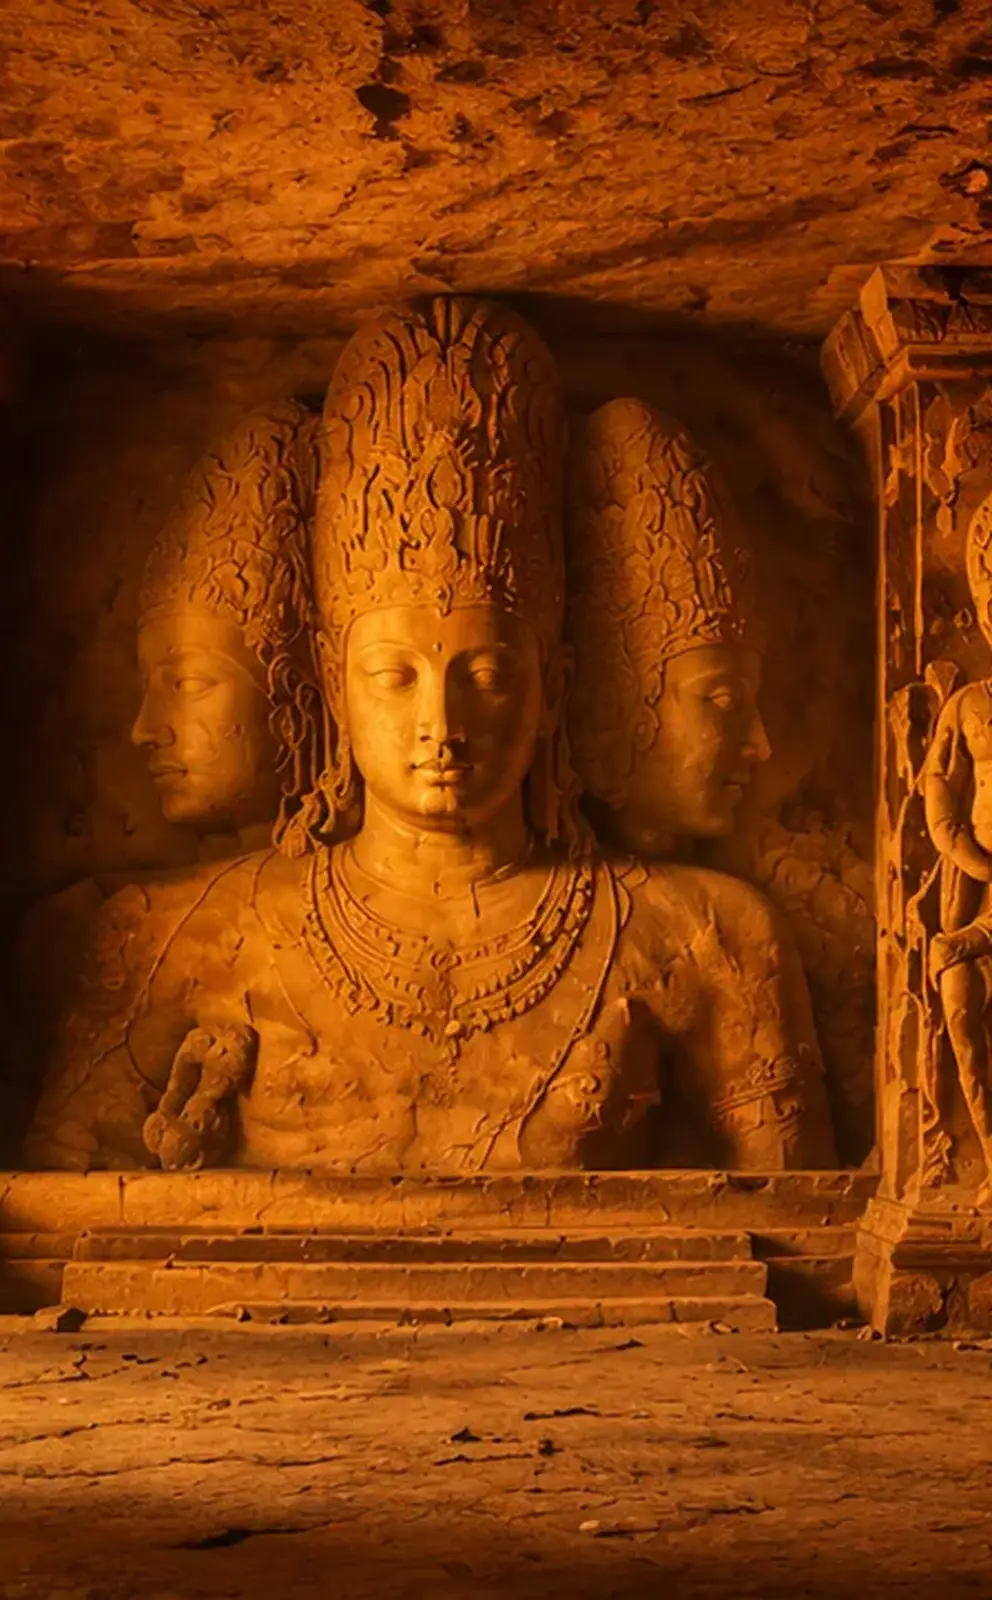
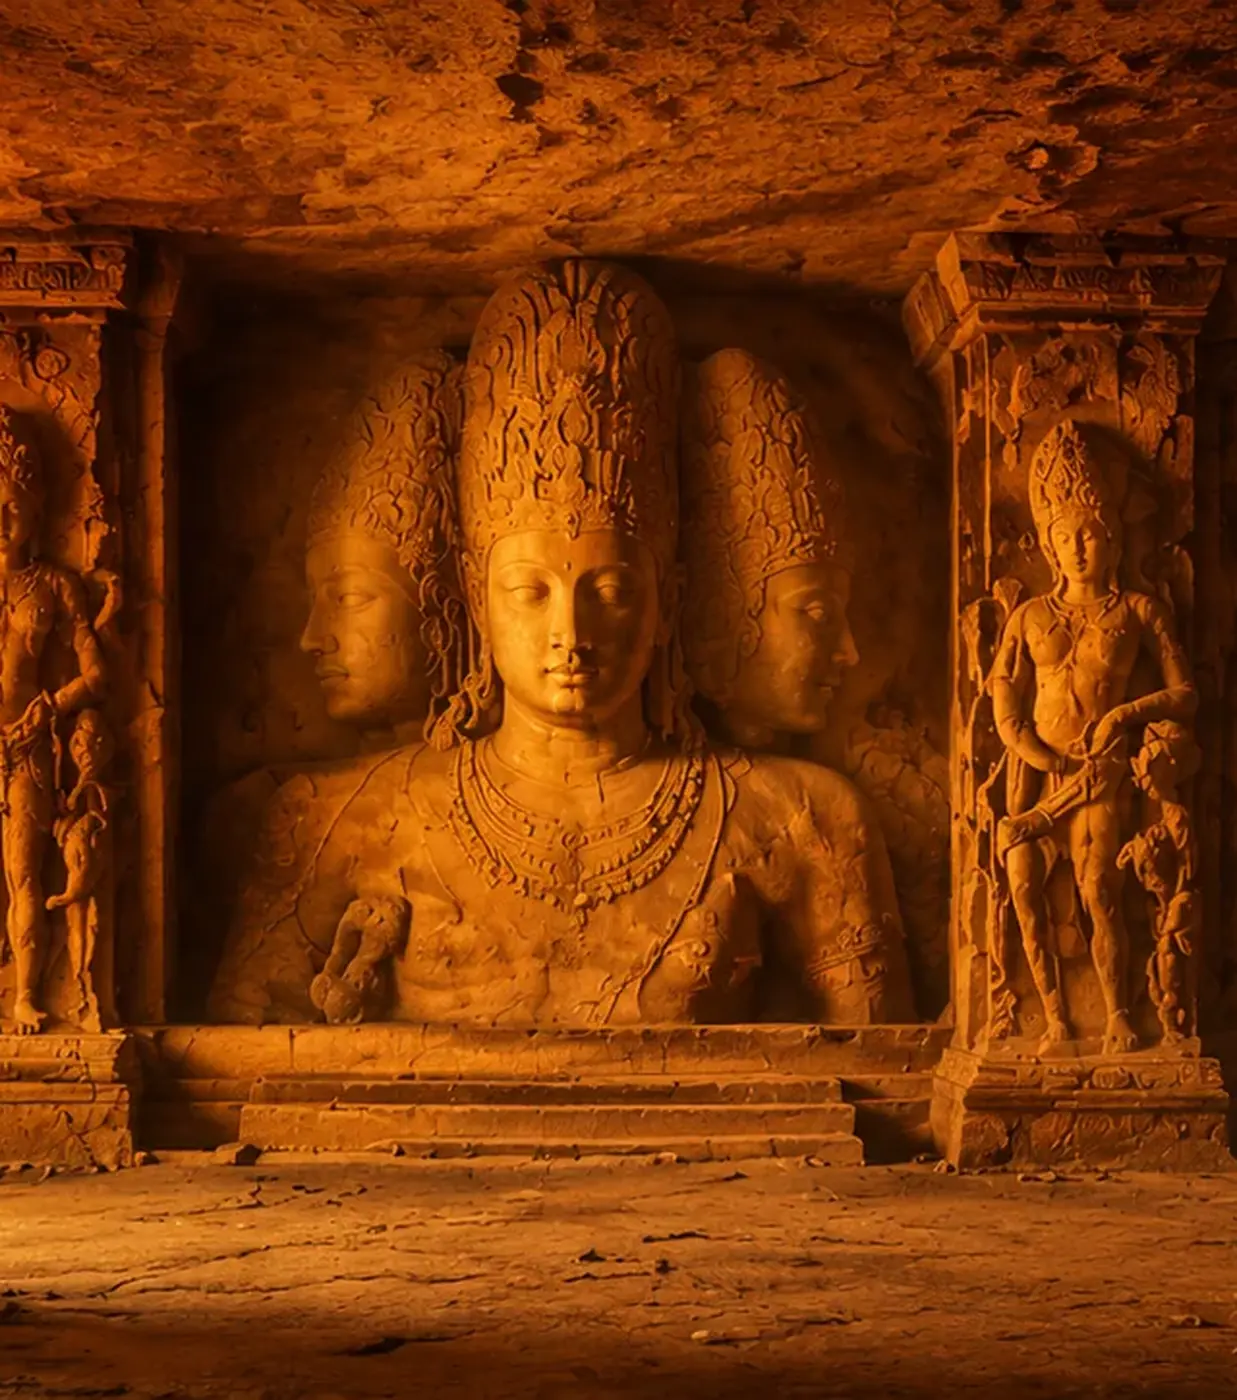
TIES Mail: sign-in as a floating card, per the design
The two panes filled the window; the design has them inside a rounded
card on the page. Panes are 42/58 rather than equal — measured off the
reference, and the larger share is what keeps the shrine readable at
card size.

The artwork was cropped tight enough to lose the pillars either side.
Re-cropped wider from the same plate so the whole shrine reads: both
flanking figures, the ceiling and the floor, as drawn.

Card 920x604 against the reference's 918x603; art pane aspect 0.884
matches exactly. Tablet drops the art and centres the form; phone goes
full-bleed, where a floating card would only waste the screen.

diff --git a/mailsite/src/styles/app.css b/mailsite/src/styles/app.css
@@ -711,14 +711,35 @@ textarea.field { height: auto; padding: 10px 11px; resize: vertical; line-height
 
 /* ── sign in ──────────────────────────────────────────────────────────── */
 
-/* Two panes of equal weight: form left, artwork right. The art is decorative,
-   so below 900px it is dropped entirely and the form centres on its own —
-   a sliver of a cave carries none of the image's meaning. */
+/* The sign-in card floats on the page rather than filling the window, so the
+   artwork reads as a plate inside a frame instead of wallpaper behind a form. */
+.login-page {
+  height: 100%;
+  display: grid;
+  place-items: center;
+  padding: 32px;
+  background: var(--page);
+  overflow-y: auto;
+}
+
+/* Not equal panes: the artwork takes the larger share (≈58/42), which is what
+   keeps the shrine readable at card size. The art is decorative, so below
+   900px it is dropped entirely and the form centres on its own — a sliver of a
+   cave carries none of the image's meaning. */
 .login {
   display: grid;
-  grid-template-columns: 1fr 1fr;
-  height: 100%;
+  grid-template-columns: minmax(0, 42fr) minmax(0, 58fr);
+  width: 100%;
+  max-width: 920px;
+  /* Tall enough for the artwork to breathe, never taller than the window. */
+  height: min(604px, calc(100vh - 96px));
   background: var(--card);
+  border-radius: 24px;
+  overflow: hidden;
+  box-shadow:
+    0 1px 2px rgba(16, 24, 40, .04),
+    0 12px 32px -8px rgba(16, 24, 40, .12),
+    0 40px 72px -24px rgba(16, 24, 40, .18);
 }
 /* The form sits a little above centre — optically centred rather than
    mathematically, which reads as balanced once the eye weighs the logo. */
@@ -847,7 +868,7 @@ textarea.field { height: auto; padding: 10px 11px; resize: vertical; line-height
   position: absolute;
   inset: 0;
   z-index: 1;
-  padding: clamp(32px, 4vw, 56px);
+  padding: 38px 40px;
   color: #fff;
   display: grid;
   gap: 16px;
@@ -855,26 +876,34 @@ textarea.field { height: auto; padding: 10px 11px; resize: vertical; line-height
 }
 .login-art-copy h2 {
   margin: 0;
-  font-size: clamp(30px, 3vw, 42px);
-  line-height: 1.14;
+  font-size: clamp(26px, 2.6vw, 34px);
+  line-height: 1.16;
   font-weight: 700;
   letter-spacing: -.022em;
   text-shadow: 0 2px 18px rgba(20, 9, 2, .45);
 }
 .login-art-copy p {
   margin: 0;
-  max-width: 42ch;
-  font-size: 14.5px;
+  max-width: 40ch;
+  font-size: 13.5px;
   line-height: 1.5;
-  color: rgba(255, 255, 255, .9);
+  color: rgba(255, 255, 255, .92);
   text-shadow: 0 1px 10px rgba(20, 9, 2, .5);
 }
 
 @media (max-width: 900px) {
-  .login { grid-template-columns: 1fr; }
+  .login { grid-template-columns: 1fr; max-width: 460px; height: auto; }
   .login-art { display: none; }
+  .login-form-pane { padding: 40px 32px; }
 }
-@media (max-width: 480px) {
+@media (max-width: 560px) {
+  /* On a phone the frame stops earning its margin: the card goes full-bleed
+     and the page behind it disappears. */
+  .login-page { padding: 0; place-items: stretch; }
+  .login {
+    max-width: none; height: 100%;
+    border-radius: 0; box-shadow: none;
+  }
   .login-form-pane { padding: 28px 20px; align-content: center; }
   .login-heading h1 { font-size: 26px; }
 }

diff --git a/mailsite/src/screens/Login.jsx b/mailsite/src/screens/Login.jsx
@@ -3,10 +3,11 @@ import { Eye, EyeOff, Loader2, Lock, User } from 'lucide-react';
 import { signIn } from '../auth.js';
 import { Brand, ErrorNotice } from '../components/common.jsx';
 
-/* A two-panel sign-in: the form on the left, the Elephanta Trimurti on the
-   right. The artwork is the same plate the website's brand page uses, so the
-   two properties read as one house. Below 900px the art panel is dropped
-   rather than shrunk — a letterboxed sliver of a cave is worse than none. */
+/* A two-panel sign-in card floating on the page: the form on the left, the
+   Elephanta Trimurti on the right. The artwork is the same plate the website's
+   brand page uses, so the two properties read as one house. Below 900px the art
+   panel is dropped rather than shrunk — a letterboxed sliver of a cave is worse
+   than none. */
 export default function Login({ onSignedIn }) {
   const [username, setUsername] = useState('');
   const [password, setPassword] = useState('');
@@ -25,7 +26,8 @@ export default function Login({ onSignedIn }) {
   };
 
   return (
-    <div className="login">
+    <div className="login-page">
+     <div className="login">
       <div className="login-form-pane">
         <form className="login-form" onSubmit={submit}>
           <Brand width={132} className="login-brand" />
@@ -72,7 +74,7 @@ export default function Login({ onSignedIn }) {
       </div>
 
       <div className="login-art" aria-hidden="true">
-        <img src="/login-art.webp" alt="" width="992" height="1600" />
+        <img src="/login-art.webp" alt="" width="1237" height="1400" />
         <div className="login-art-copy">
           <h2>Our mail keeps<br />the whole team<br />moving.</h2>
           <p>
@@ -81,6 +83,7 @@ export default function Login({ onSignedIn }) {
           </p>
         </div>
       </div>
+     </div>
     </div>
   );
 }
